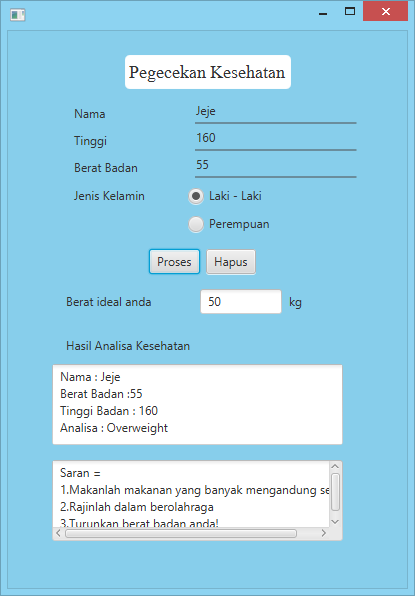
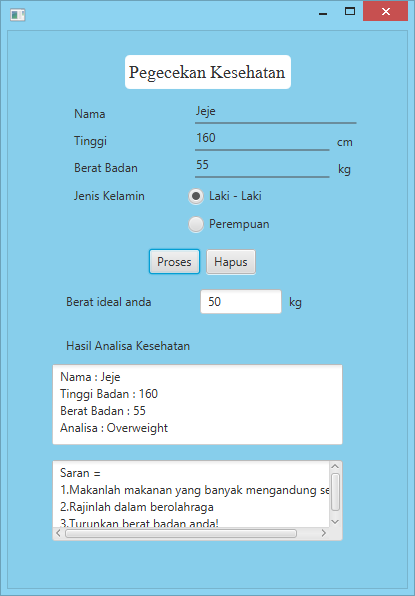
Kesehatan

Changed region(s): [[0.1446, 0.6342, 0.3759, 0.7248], [0.8096, 0.2114, 0.8675, 0.302]]

diff --git a/src/latihankesehatanfx/FXMLkesehatanController.java b/src/latihankesehatanfx/FXMLkesehatanController.java
@@ -60,7 +60,7 @@ public class FXMLkesehatanController implements Initializable {
 
     @FXML
     private void proses(ActionEvent event) {
-        if(!(nama.getText().equals("") || tinggi.getText().equals("") || bb.getText().equals("") || L.isSelected() || P.isSelected()) ){
+        if(nama.getText().equals("") || tinggi.getText().equals("") || bb.getText().equals("")  ){
             JOptionPane.showMessageDialog(null, "Harap Lengkapi Data Anda");
         }else{
         int ideal = 0;
@@ -84,7 +84,9 @@ public class FXMLkesehatanController implements Initializable {
                 ta11 = "Overweight";
                 ta22 = "Saran = \n1.Makanlah makanan yang banyak mengandung serat\n2.Rajinlah dalam berolahraga\n3.Turunkan berat badan anda!";
             }
-            
+            beratIdeal.setText(""+ideal);
+            ta1.setText("Nama : "+Nama+"\nTinggi Badan : "+Tinggi+"\nBerat Badan : "+berat+"\nAnalisa : "+ta11);
+            ta2.setText(ta22);
         }
         else if(P.isSelected()){
             ideal = Tinggi - 100;
@@ -100,12 +102,20 @@ public class FXMLkesehatanController implements Initializable {
             ta11 = "Overweight";
                 ta22 = "Saran = \n1.Makanlah makanan yang banyak mengandung serat\n2.Rajinlah dalam berolahraga\n3.Turunkan berat badan anda!";
             }
-        }
             beratIdeal.setText(""+ideal);
-            ta1.setText("Nama : "+Nama+"\nBerat Badan :"+berat+"\nTinggi Badan : "+Tinggi+"\nAnalisa : "+ta11);
+            ta1.setText("Nama : "+Nama+"\nTinggi Badan : "+Tinggi+"\nBerat Badan : "+berat+"\nAnalisa : "+ta11);
             ta2.setText(ta22);
         }
-    }
+        else{
+                JOptionPane.showMessageDialog(null, "Harap Lengkapi Data Anda");
+                ta11 = "";
+                ta22 = "";  
+            beratIdeal.setText("");
+            ta1.setText(ta11);
+            ta2.setText(ta22);        
+        }
+        }
+        }
     @FXML
     void hapus(ActionEvent event) {
         nama.setText("");
